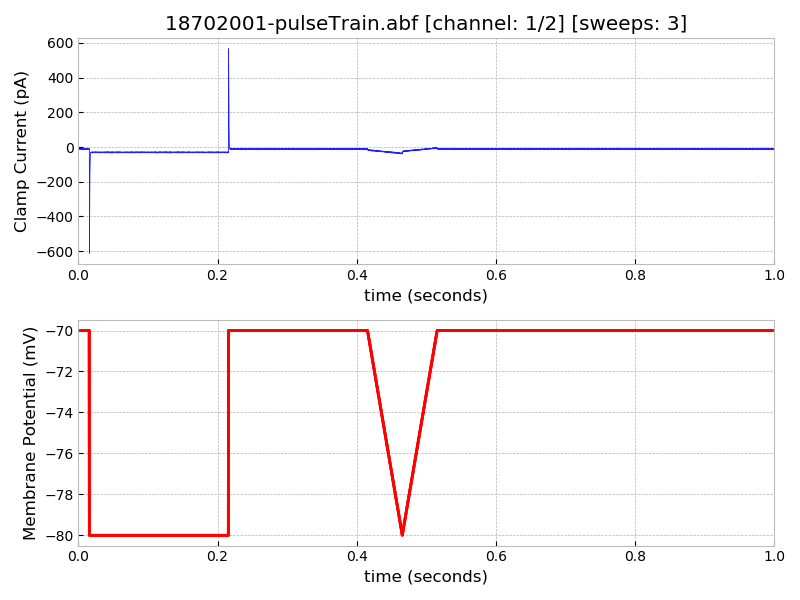
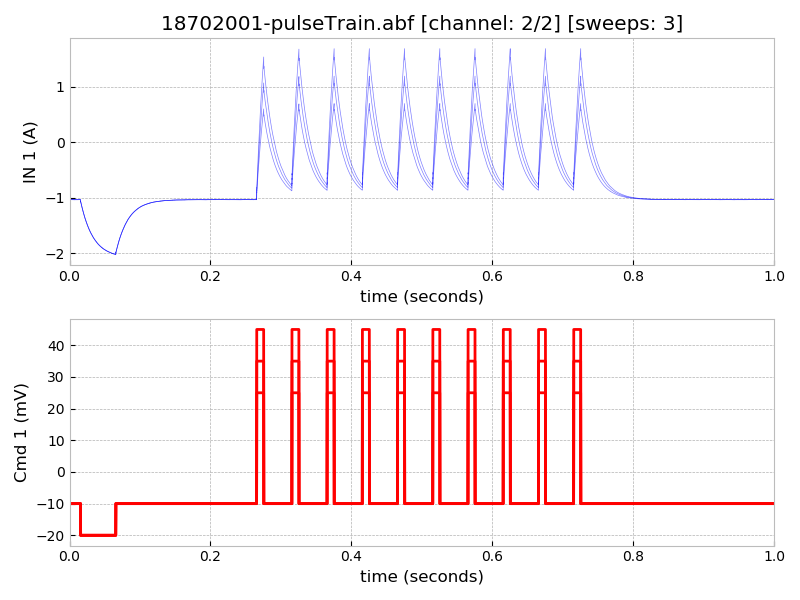
pulse train thumbnail

diff --git a/data/generate-data-index.py b/data/generate-data-index.py
@@ -154,9 +154,14 @@ def plotThumbnail(abf):
     if "loose" in abf.protocol:
         absoluteTime = True
 
+    # usually we plot channel 0, but sometimes manually override
+    channel = 0
+    if "18702001" in abf.abfID:
+        channel = 1
+
     # plot the data sweep by sweep
     for sweep in abf.sweepList:
-        abf.setSweep(sweep, absoluteTime=absoluteTime)
+        abf.setSweep(sweep, channel=channel, absoluteTime=absoluteTime)
         ax1.plot(abf.sweepX, abf.sweepY, alpha=.5, color='b', lw=.5)
         ax2.plot(abf.sweepX, abf.sweepC, color='r')
 
